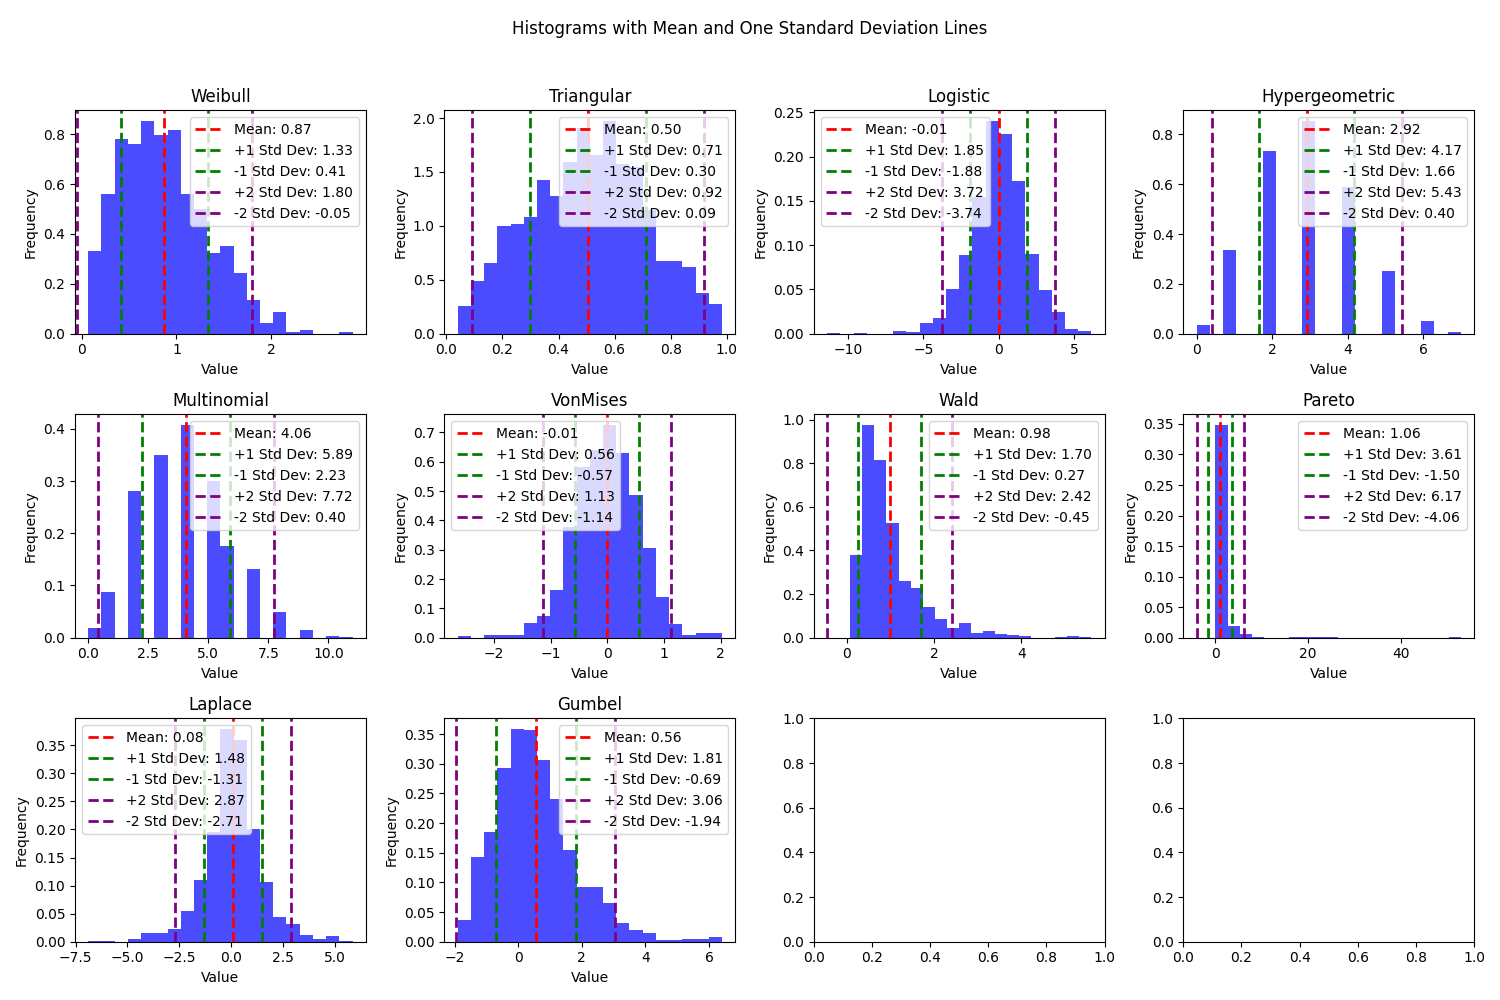
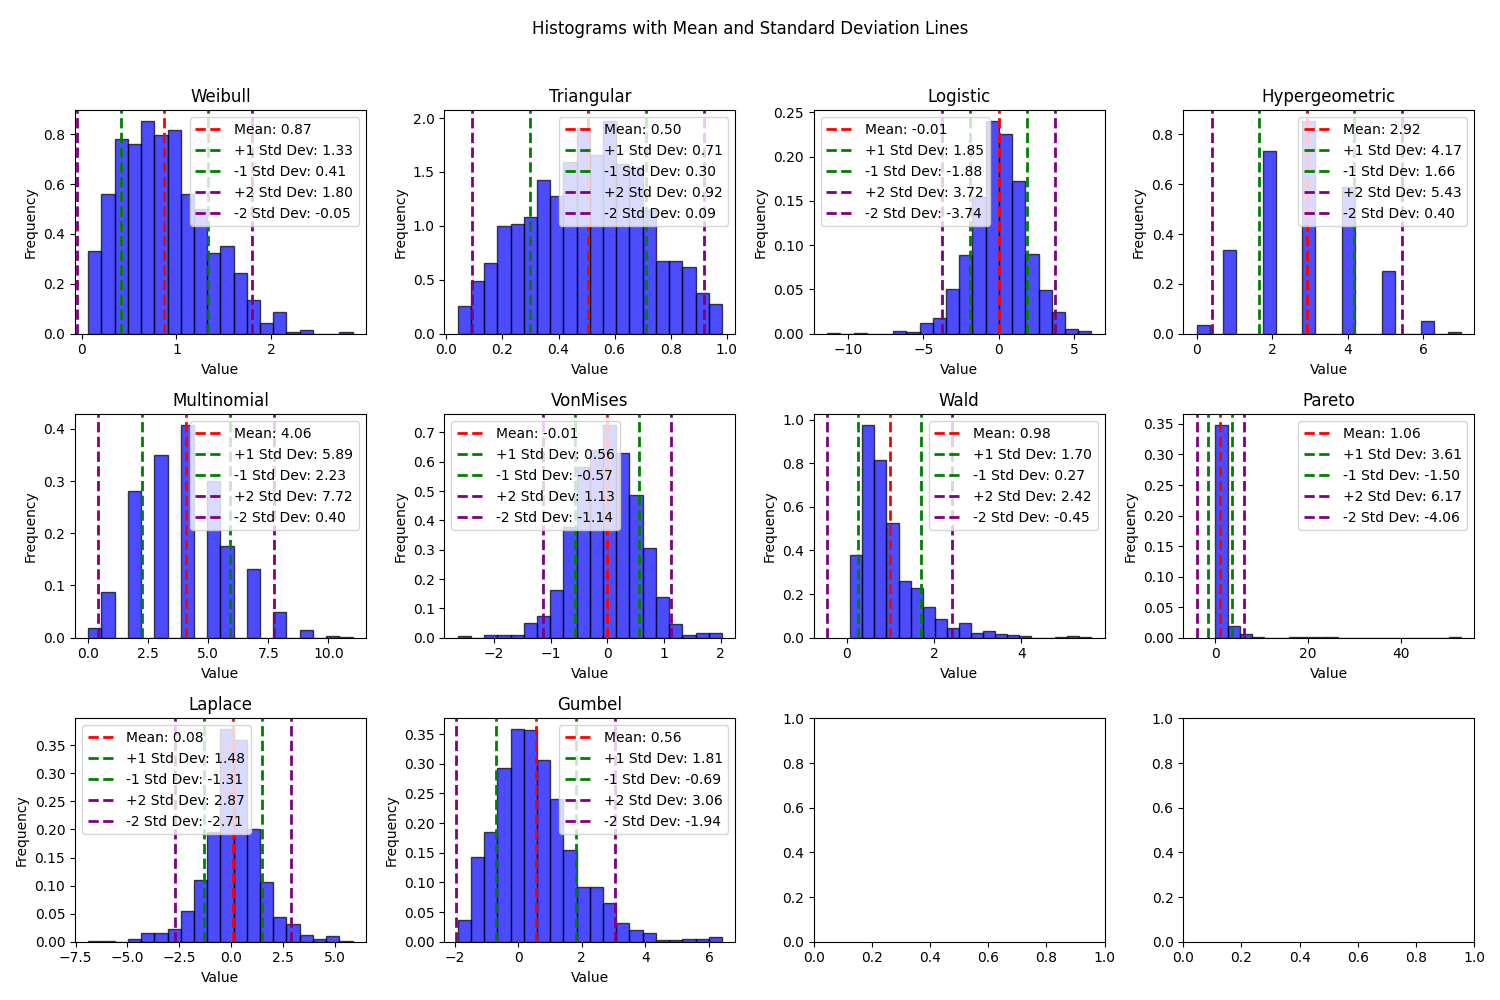
Added percentiles of LSAT scores py file

diff --git a/Python_Statistics/percentiles_LSAT_scores.py b/Python_Statistics/percentiles_LSAT_scores.py
@@ -1,0 +1,52 @@
+import numpy as np
+import matplotlib.pyplot as plt
+
+# Set seed for reproducibility
+np.random.seed(42)
+
+# Generate a dataset of LSAT scores
+num_samples = 1000
+lsat_scores = np.random.normal(loc=153, scale=10, size=num_samples)  # mean=152, std=10
+
+# Adjust percentiles to match desired LSAT scores
+percentiles = [10, 25, 40, 60, 70, 77, 97]
+desired_scores = [140, 146, 150, 155, 158, 160, 170]
+
+for percentile, desired_score in zip(percentiles, desired_scores):
+    lsat_scores = np.insert(lsat_scores, np.searchsorted(lsat_scores, np.percentile(lsat_scores, percentile)), desired_score)
+
+# Ensure all scores are within the range [120, 180]
+lsat_scores = np.clip(lsat_scores, 120, 180)
+
+# Calculate mean and updated deciles
+mean_score = np.mean(lsat_scores)
+deciles_dict = {percentile: np.percentile(lsat_scores, percentile) for percentile in percentiles}
+
+# Set the size and DPI of the figure
+fig = plt.figure(figsize=(16, 10), dpi=100)  # Adjust the size and DPI as needed
+
+# Create histogram
+plt.hist(lsat_scores, bins=30, color='blue', edgecolor='black')
+
+# Add mean line
+plt.axvline(mean_score, color='red', linestyle='solid', linewidth=2, label='Mean')
+
+# Add updated decile lines
+for percentile, decile in deciles_dict.items():
+    plt.axvline(decile, color='green', linestyle='dotted', linewidth=3)
+    plt.text(decile, plt.ylim()[1]+6, f'{percentile}th', rotation=0, va='bottom', ha='center', color='black')
+    plt.text(decile, plt.ylim()[1]+4, f'{int(decile)}', rotation=0, va='top', ha='center', color='black')
+
+# Set labels and title
+plt.xlabel('LSAT Score')
+plt.ylabel('Frequency')
+plt.title('Distribution of LSAT Scores with Percentiles',  y=1.10) # y moves the title up to create more space
+
+# Add legend
+plt.legend()
+
+# Save plot as image
+plt.savefig('LSAT_score_percentiles.png', bbox_inches='tight')
+
+# Show the plot
+plt.show()

diff --git a/Python_Statistics/spread.py b/Python_Statistics/spread.py
@@ -104,11 +104,11 @@ print(column_std_devs)
 
 # Create histograms with mean, one std above, and one std below lines
 fig, axes = plt.subplots(nrows=3, ncols=4, figsize=(15, 10))
-fig.suptitle('Histograms with Mean and One Standard Deviation Lines')
+fig.suptitle('Histograms with Mean and Standard Deviation Lines')
 
 for i, (col, ax) in enumerate(zip(distributions_df.columns, axes.flatten())):
     # Plot histogram
-    ax.hist(distributions_df[col], bins=20, density=True, alpha=0.7, color='blue')
+    ax.hist(distributions_df[col], bins=20, density=True, alpha=0.7, color='blue', edgecolor = 'black')
 
     # Plot mean line
     mean_value = distributions_df[col].mean()
